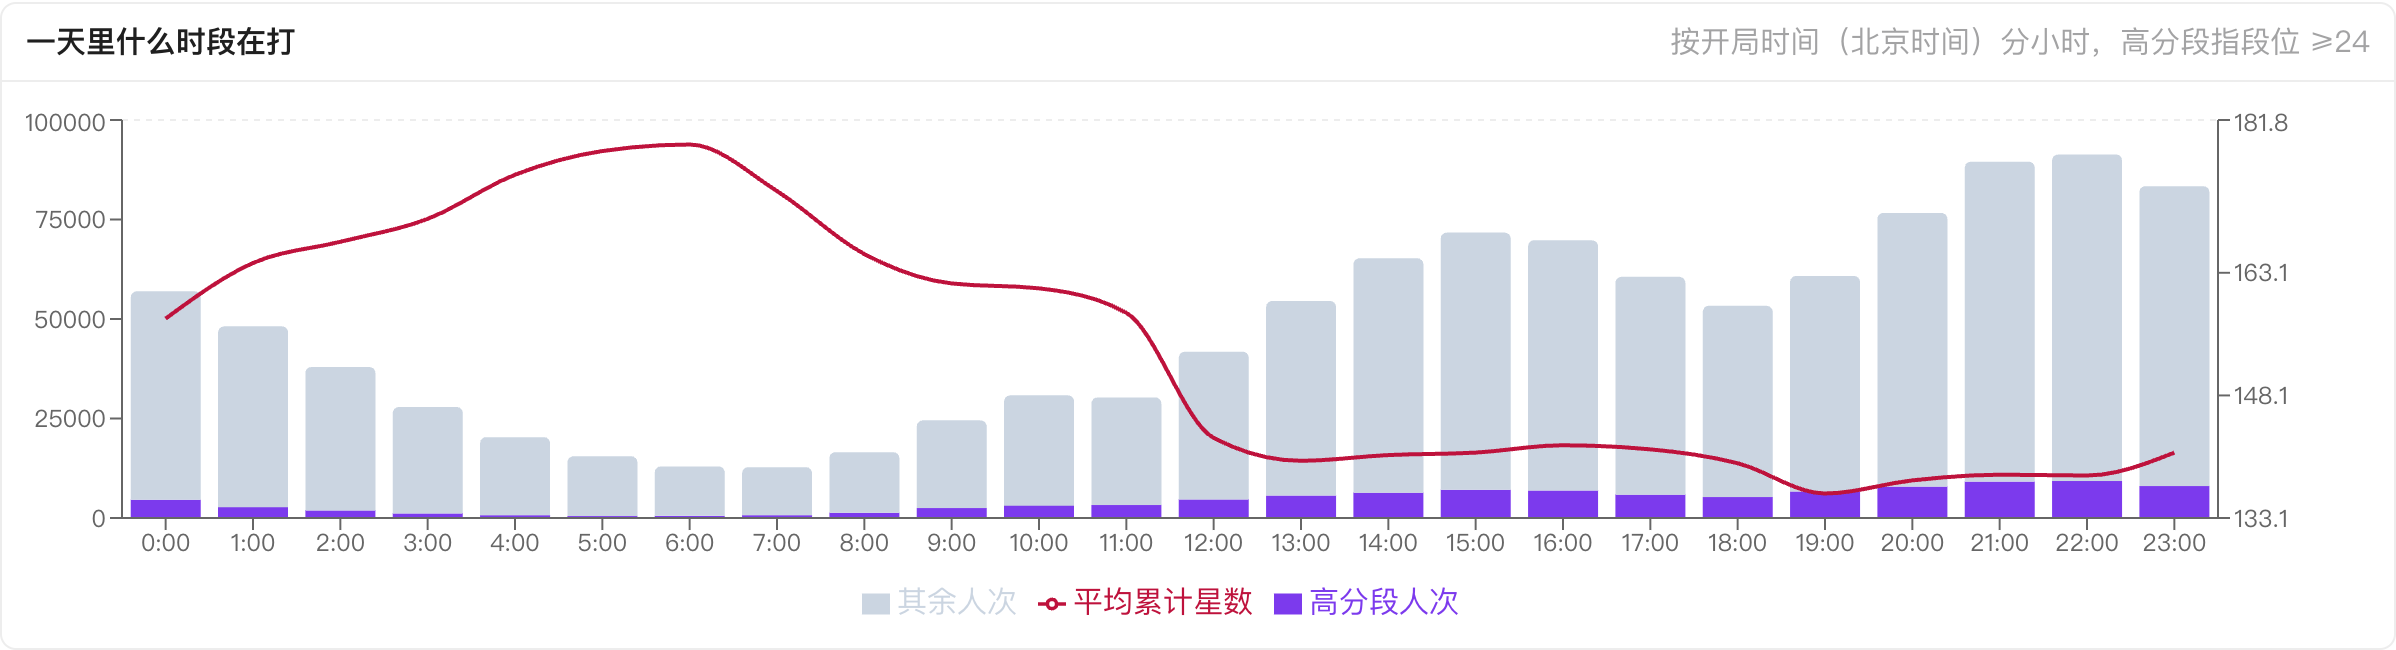
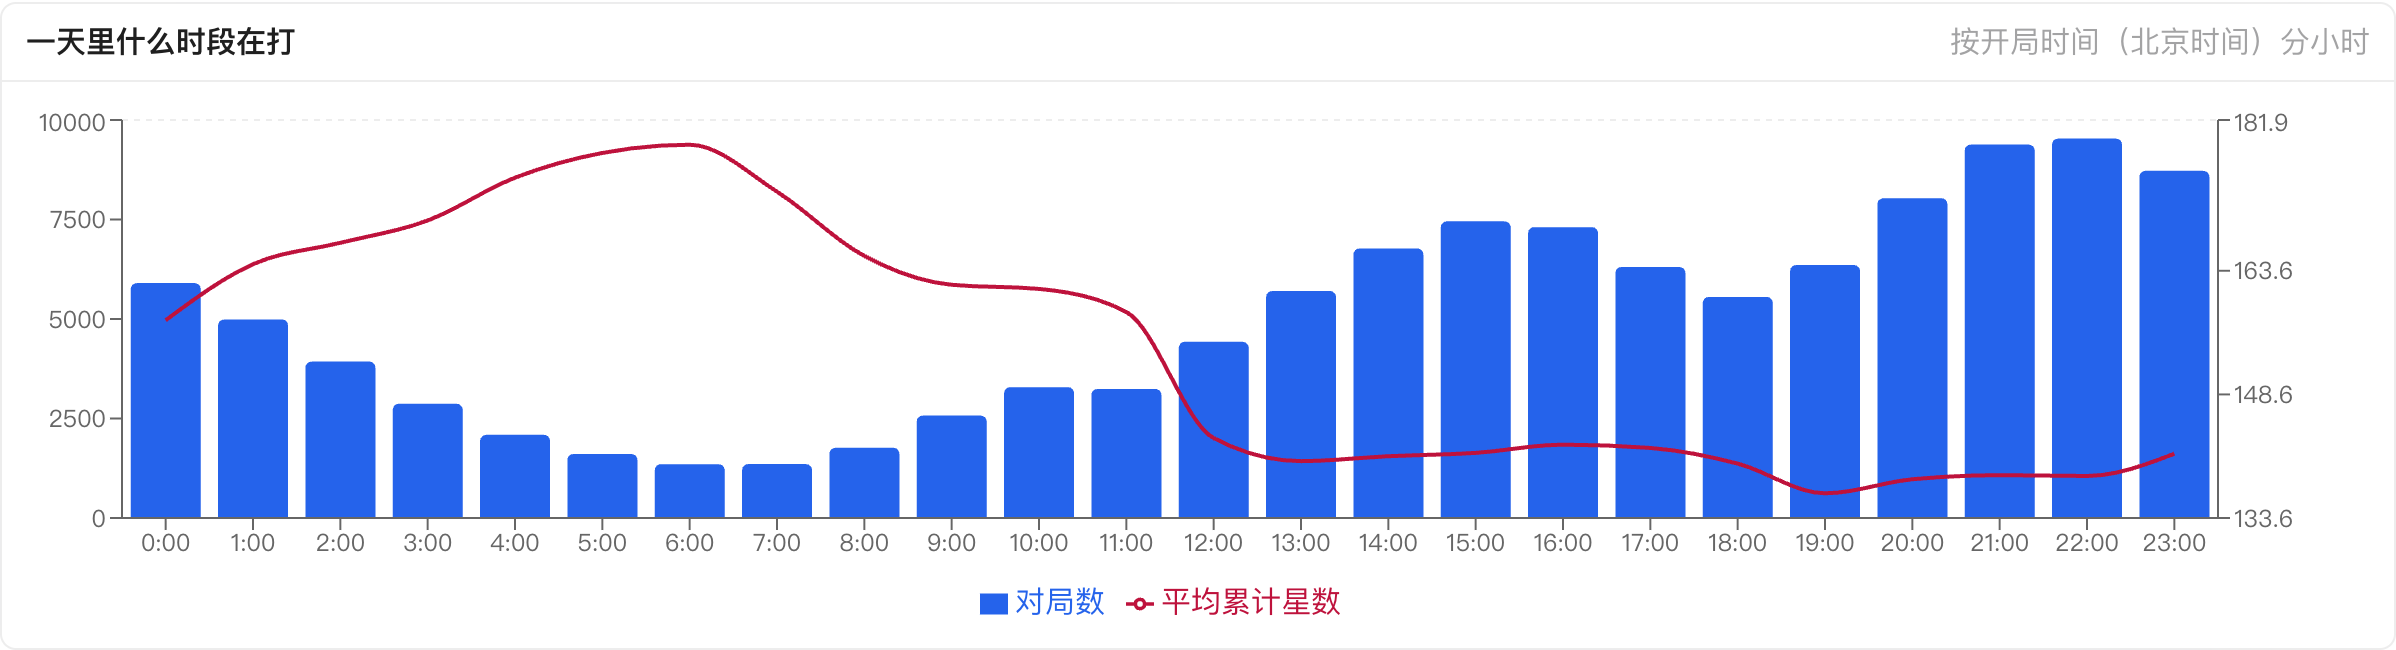
docs(wzry): 校正文章数据与小时趋势图

diff --git a/src/content/posts/WZRY-Analysis-2.md b/src/content/posts/WZRY-Analysis-2.md
@@ -14,11 +14,11 @@ description: 从游戏客户端的真实响应里，我收集了 60 万名玩家
 
 七年后，我把数据入口换到了游戏客户端。上一篇《[从抓包到改字段](/2026/07/26/WZRY-Protocol-Hook/)》里，我在游戏进程中拦截收发消息，把对局结算和玩家档案读成 JSON，再让客户端查询玩家近期战绩。
 
-每次查询最多返回最近 50 局，每局还能带出九名同局玩家。陌生玩家会进入待查队列，查询沿着同局关系继续展开。7 月 28 日晚到 29 日晚的 1,517 次成功查询，关联到 66,686 场对局和 344,562 名玩家，其中 83,234 人后来再次出现。
+每次查询最多返回最近 50 局，每局还能带出九名同局玩家。陌生玩家会进入待查队列，查询沿着同局关系继续展开。7 月 29 日凌晨到当晚的 1,517 次成功查询，关联到 66,686 场对局和 344,562 名玩家，其中 83,234 人后来再次出现。
 
 ![战绩查询沿同局玩家展开后的新增与重复玩家数量](/upload/images/2026-07-28-WZRY-Analysis-2/bfs-expansion.png)
 
-截至 2026 年 7 月 29 日，库里共有 600,987 名玩家、118,781 局对局和 1,176,669 条参战记录，其中 6,553 名玩家有完整档案。对局覆盖一千多个大区。
+截至 2026 年 7 月 29 日，库里共有 600,987 名玩家、118,781 局对局和 1,176,669 条参战记录，其中 6,521 名玩家有档案，共留下 6,553 份档案快照。对局覆盖一千多个大区。
 
 ![当前采集概览，包含玩家、档案、对局和参战记录数量](/upload/images/2026-07-28-WZRY-Analysis-2/collection-overview.png)
 
@@ -47,13 +47,13 @@ description: 从游戏客户端的真实响应里，我收集了 60 万名玩家
 
 ![七万局完整真人排位按一分钟统计的时长分布](/upload/images/2026-07-28-WZRY-Analysis-2/match-duration-distribution.png)
 
-开局时间集中在晚间。22 点有 9,359 局，21 点有 9,227 局；早上 6 点和 7 点最低，分别为 1,339 和 1,347 局。凌晨 4 至 6 点的样本平均累计星数达到 175.1 至 178.8，19 至 22 点落在 136.2 至 138.4。
+开局时间集中在晚间。22 点有 9,520 局，21 点有 9,379 局；早上 6 点和 7 点最低，分别为 1,352 和 1,354 局。凌晨 4 至 6 点的样本平均累计星数为 174.9 至 178.9，19 至 22 点落在 136.6 至 138.8。
 
 ![全部已采对局在 24 小时内的开局数量和平均累计星数](/upload/images/2026-07-28-WZRY-Analysis-2/hourly-activity-trend.png)
 
-胜方平均死亡 2.84 次，败方为 4.64 次。死亡次数是这组基础指标里差距最大的一项。
+这 70,022 局里，胜方平均死亡 2.94 次，败方为 4.77 次。死亡次数是这组基础指标里差距最大的一项。
 
-英雄出场榜里，瑶有 23,739 次，百里守约 23,671 次，后羿 23,266 次。只看至少出场 800 次的英雄，胜率前三是盾山 56.63%、雅典娜 56.00% 和沈梦溪 55.97%；末三位是明世隐 45.39%、吕布 46.56% 和露娜 46.65%。
+下面的英雄榜切回全部已采模式。瑶有 23,739 次出场，百里守约 23,671 次，后羿 23,266 次。只看至少出场 800 次的英雄，胜率前三是盾山 56.63%、雅典娜 56.00% 和沈梦溪 55.97%；末三位是明世隐 45.39%、吕布 46.56% 和露娜 46.65%。
 
 ![英雄出场次数、胜率、平均评分和榜单](/upload/images/2026-07-28-WZRY-Analysis-2/hero-appearance-winrate.png)
 
@@ -61,7 +61,7 @@ description: 从游戏客户端的真实响应里，我收集了 60 万名玩家
 
 ## 老玩家和单局纪录
 
-6,553 名有完整档案的玩家里，2,626 人玩了九年以上，3,288 人打过一万场，207 人超过三万场。总场次最高的玩家打了 58,959 场。
+6,521 名有档案的玩家里，2,626 人玩了九年以上，3,288 人打过一万场，207 人超过三万场。总场次最高的玩家打了 58,959 场。
 
 ![账号年限分布，以及各年限玩家的平均累计场次](/upload/images/2026-07-28-WZRY-Analysis-2/player-age-distribution.png)
 
@@ -112,13 +112,13 @@ description: 从游戏客户端的真实响应里，我收集了 60 万名玩家
 
 鬼谷子的五排复核仍然没有显著差异：五排 138 胜 / 317 场，五个散人 95 胜 / 174 场；分层差异为 -4.49 个百分点，95% 置信区间跨过 0，`p = 0.644`。当前达到显著水平的 10 名英雄已经列在图中。
 
-### 高星玩家最明显的特点是少死
+### 累计星数与死亡、KDA
 
-把排位按累计星数每五颗一档后，高星玩家的击杀和助攻没有大幅增加，死亡频率降了下来。
+把排位按累计星数每五颗一档后，死亡和 KDA 都有波动。
 
 ![排位累计星数与平均死亡、KDA 的变化趋势](/upload/images/2026-07-28-WZRY-Analysis-2/rank-combat-trend.png)
 
-累计星数不高于 108 的玩家每 10 分钟死亡 2.59 次，109 至 127 星是 2.54 次，128 星以上降到 2.14 次。三组每 10 分钟的击杀加助攻分别为 7.45、7.47 和 7.58。最高一组的死亡频率低约 17%。
+再把玩家分成三组，并按实际对局时长归一到每 10 分钟：累计星数不高于 108 的玩家死亡 2.76 次，109 至 127 星是 2.42 次，128 星以上是 2.52 次；三组击杀加助攻分别为 7.61、7.44 和 7.42。中间一组死亡最低，最高一组回升到 2.52 次。图里画的是每五颗星一档的每局平均死亡和平均 KDA，两种口径的趋势都有波动。
 
 ### 苹果样本段位更高，微信区对局更久
 
@@ -157,7 +157,7 @@ description: 从游戏客户端的真实响应里，我收集了 60 万名玩家
 
 当前库里有 17,857 条伪人参战记录，涉及 17,674 个 `(uid, world)` 身份。除 `bIsAI` 外，英雄熟练度也能把两组记录清楚分开：17,851 条伪人记录为非零，普通玩家记录全部为 0。
 
-![普通玩家和伪人的英雄熟练度、组队人数等字段对照](/upload/images/2026-07-28-WZRY-Analysis-2/ai-proficiency.png)
+![普通玩家和伪人的英雄熟练度对照](/upload/images/2026-07-28-WZRY-Analysis-2/ai-proficiency.png)
 
 ### 排位、巅峰赛和匹配都有
 
@@ -181,7 +181,9 @@ description: 从游戏客户端的真实响应里，我收集了 60 万名玩家
 
 ### 五人伪人队胜率只有 4.45%
 
-排位里一方完整五人伪人的 1,842 局，伪人队只赢 82 局，胜率 4.45%。真人队拿到 95.55% 的胜率，仍有 82 支队伍输掉了这类福利局。
+排位里一方完整五人伪人的 1,842 局，伪人队只赢 82 局，胜率 4.45%，对手一侧胜率 95.55%。其中 1,535 局的对手是纯真人，292 局带一个伪人，11 局带两个，1 局带三个，3 局带四个。
+
+伪人队赢下的 82 局里，71 局对手是纯真人，11 局对手带一个伪人。五个伪人都打不过的纯真人队有 71 支，福利局送到脸上还能输，这次很难怪匹配。
 
 再看真人对手上一条已采集记录。完整五人伪人队的对面共有 7,067 名不同玩家，其中 1,077 人能找到更早的记录，上一条记录的败率为 79.44%。
 
@@ -205,23 +207,21 @@ description: 从游戏客户端的真实响应里，我收集了 60 万名玩家
 
 玩家「我是给※」的档案排位胜率为 51.0%。我采到他的 48 局 PVP，对面有完整五人伪人队的共有 23 局，他赢了 22 局；另有 5 局带部分伪人，赢了 4 局；剩余 20 局纯真人对局只赢 11 局。48 局合计 37 胜，胜率 77.1%。
 
-这 23 局贡献了 22 胜，占他全部 37 个胜场的 59.5%。
-
 主播[磊哥](https://space.bilibili.com/268941858/)分享过一套利用匹配机制的经验：在游戏里梦游，待在塔下挂机清线，尽量少击杀、少拿高评分和 MVP。他把这叫「避免沾染因果」。相关视频包括[《高阶鸡爪流教学，随便沾染因果也不涨评分》](https://www.bilibili.com/video/BV1nBjhz1ErC/)和[《谁暴露了自己的实力，谁就会变成牢玩家》](https://www.bilibili.com/video/BV18cF7z1EKT/)。
 
 ![高采集胜率玩家的伪人对手构成，以及低评分和零击杀的全库对照](/upload/images/2026-07-28-WZRY-Analysis-2/ai-playstyle-case.png)
 
-这名玩家从 23 场完整五人伪人局中拿到 22 胜，受益很直接。全库按上一局胜负分层后，五人伪人局与普通排位的低评分、零击杀比例接近；当前数据中，上一条记录告负与五人伪人局同时出现得更频繁，还没有找到「梦游」行为与匹配结果的直接联系。
+这 23 场带来 22 胜，占他全部 37 个胜场的 59.5%。全库按上一局胜负分层后，五人伪人局与普通排位的低评分、零击杀比例接近；当前数据只显示上一条记录告负与五人伪人局同时出现得更频繁，还没有找到「梦游」行为与匹配结果的直接联系。
 
-### 有些账号同时以真人和伪人出现
+### 同一身份键同时以真人和伪人出现
 
 17,674 个带 AI 标记的身份里，198 个也出现过普通玩家记录，87 个只以伪人身份重复出现。
 
-32 个身份呈现「普通昵称、伪人昵称、恢复普通昵称」的顺序，跨度都在 15 天内；9 条伪人记录还与同一身份的普通玩家对局发生时间重叠。相同的 `(uid, world)` 可以使用两个名字，同时参加两场正在进行的对局。
+30 个身份留下 32 条「普通昵称、伪人昵称、恢复普通昵称」记录，跨度都在 15 天内；其中 9 个身份的伪人记录还与普通玩家对局发生时间重叠。相同的 `(uid, world)` 可以使用两个名字，同时参加两场正在进行的对局。
 
 ![伪人身份复用、昵称恢复和对局时间重叠记录](/upload/images/2026-07-28-WZRY-Analysis-2/ai-identity-reuse.png)
 
-这里甚至能查到一部分伪人开放的历史战绩。普通记录、伪人记录和 9 组时间重叠记录放在一起看，部分真人账号的 uid 疑似被系统复用于伪人对局。
+这里甚至能查到一部分伪人开放的历史战绩。这种现象很容易让人怀疑真人账号被拿去填充；目前只能确认身份键复用和 9 组时间重叠，uid 生成机制仍未知。
 
 ### 新区更容易遇到
 
